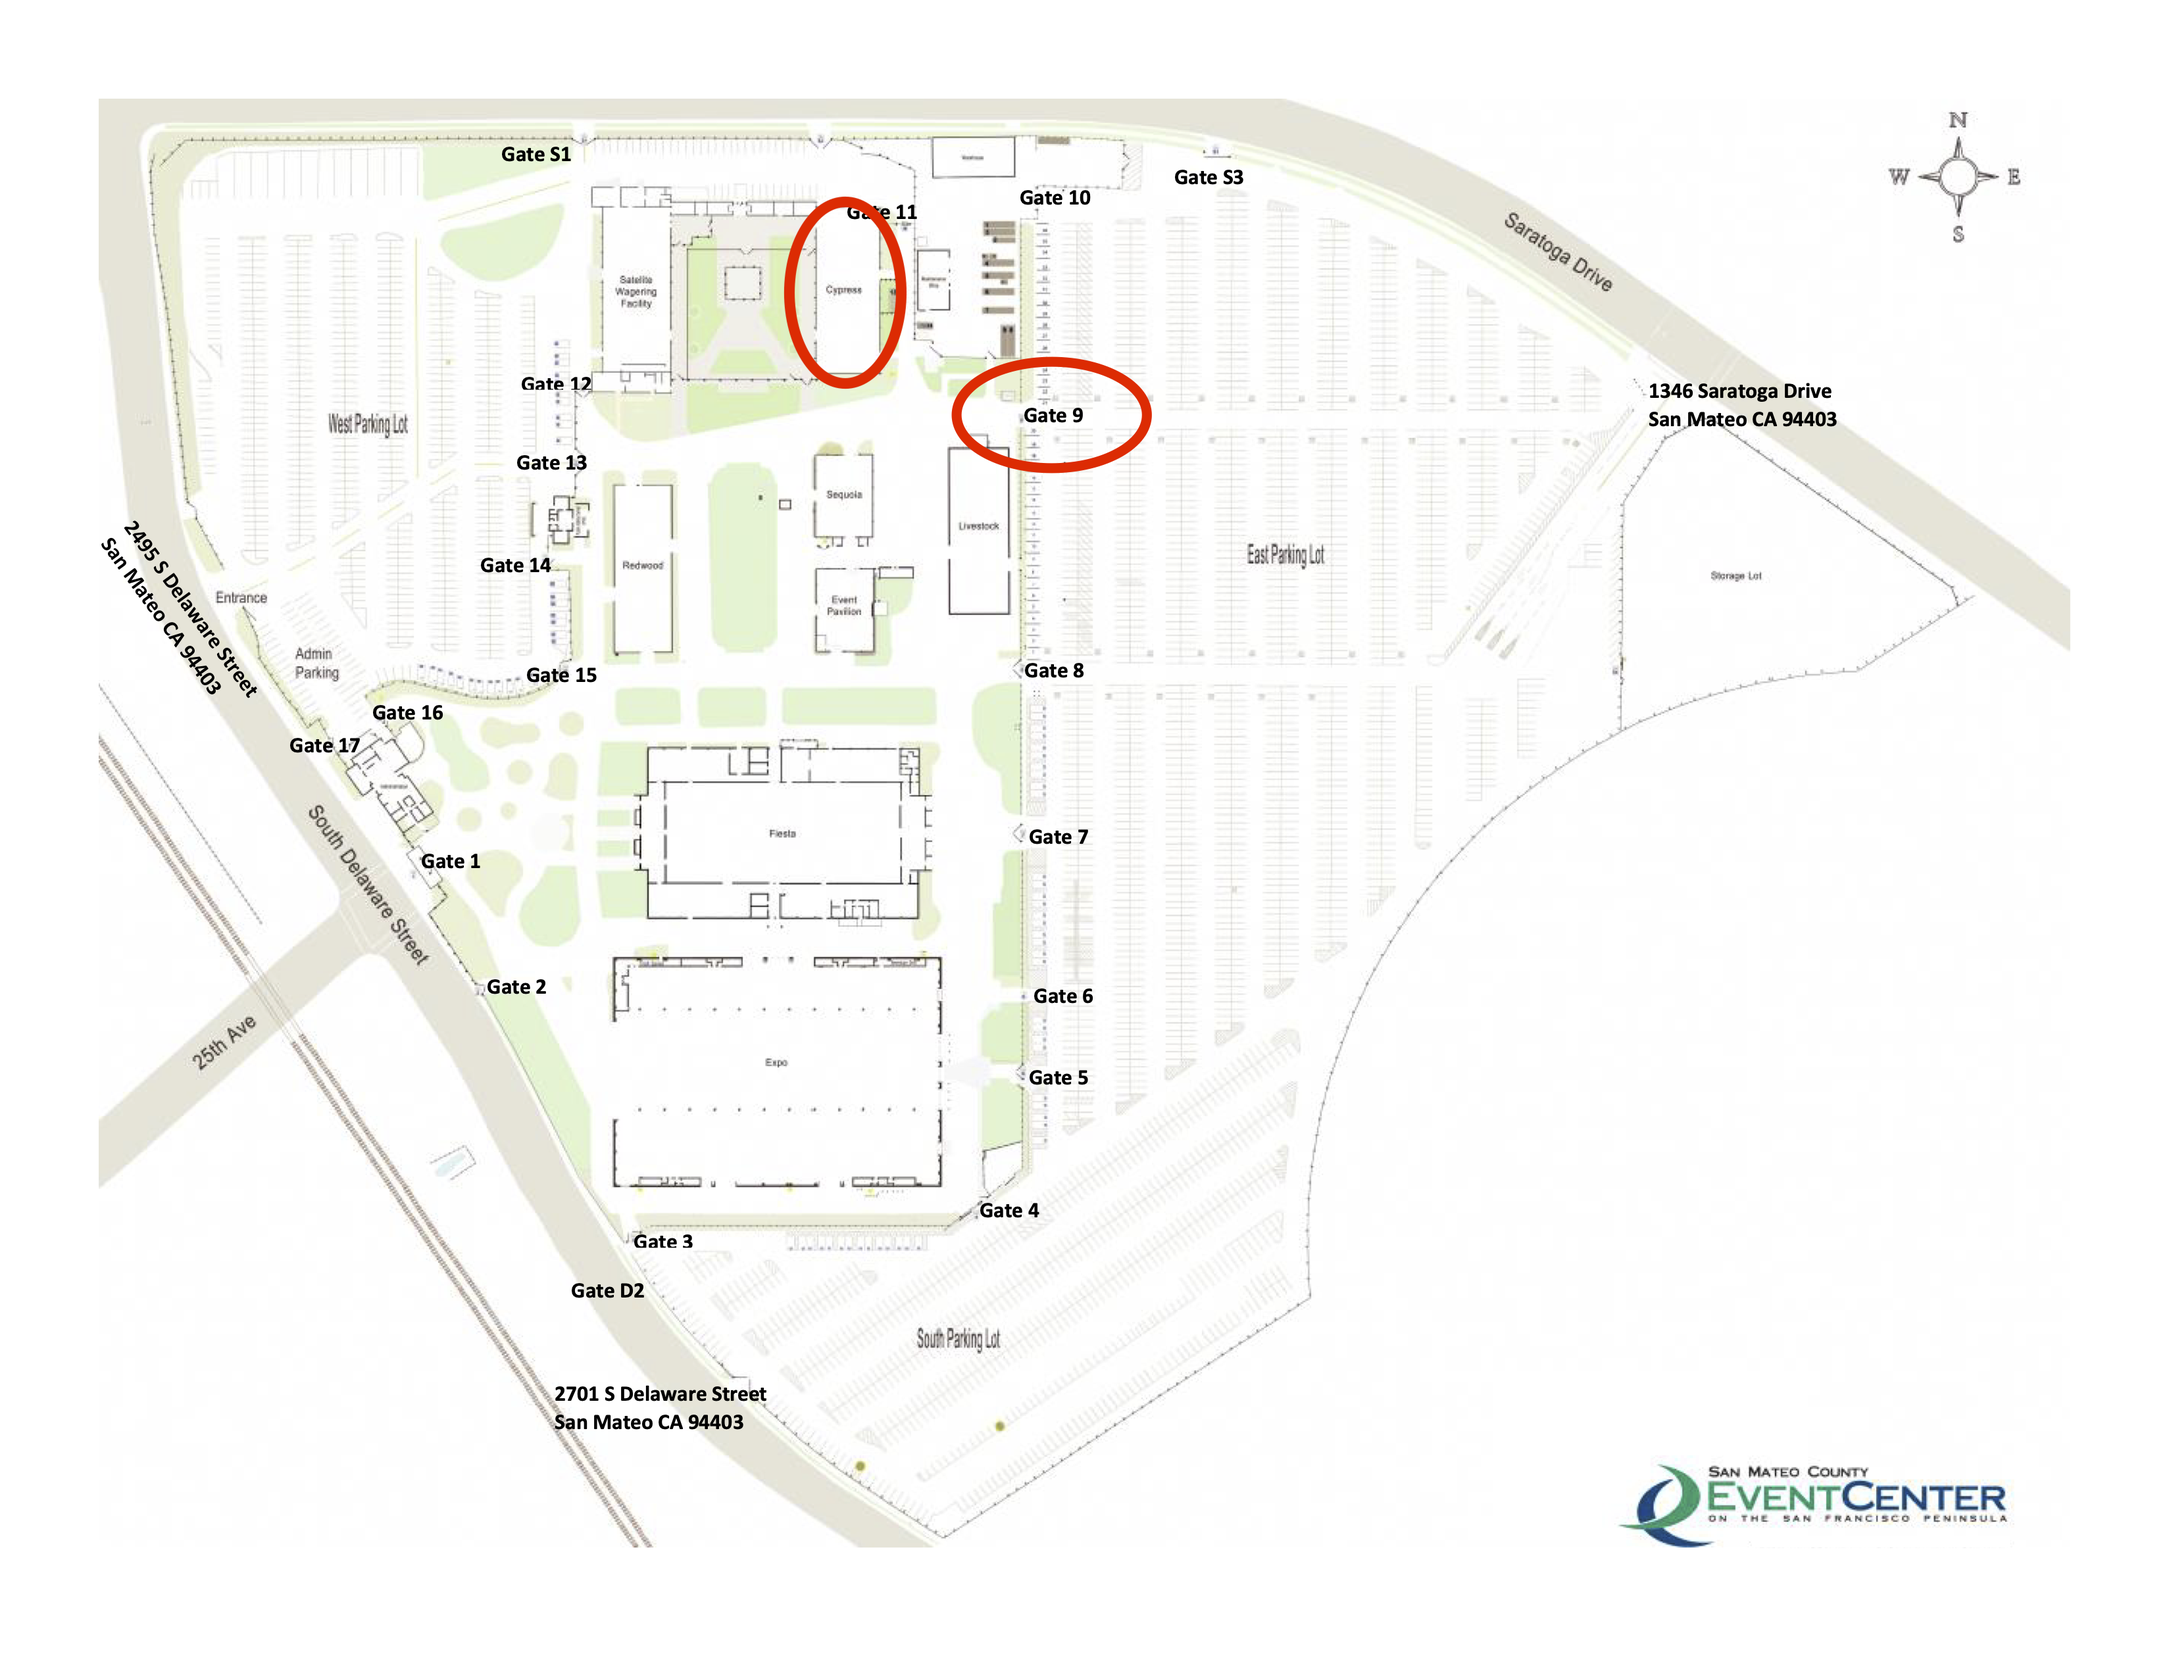
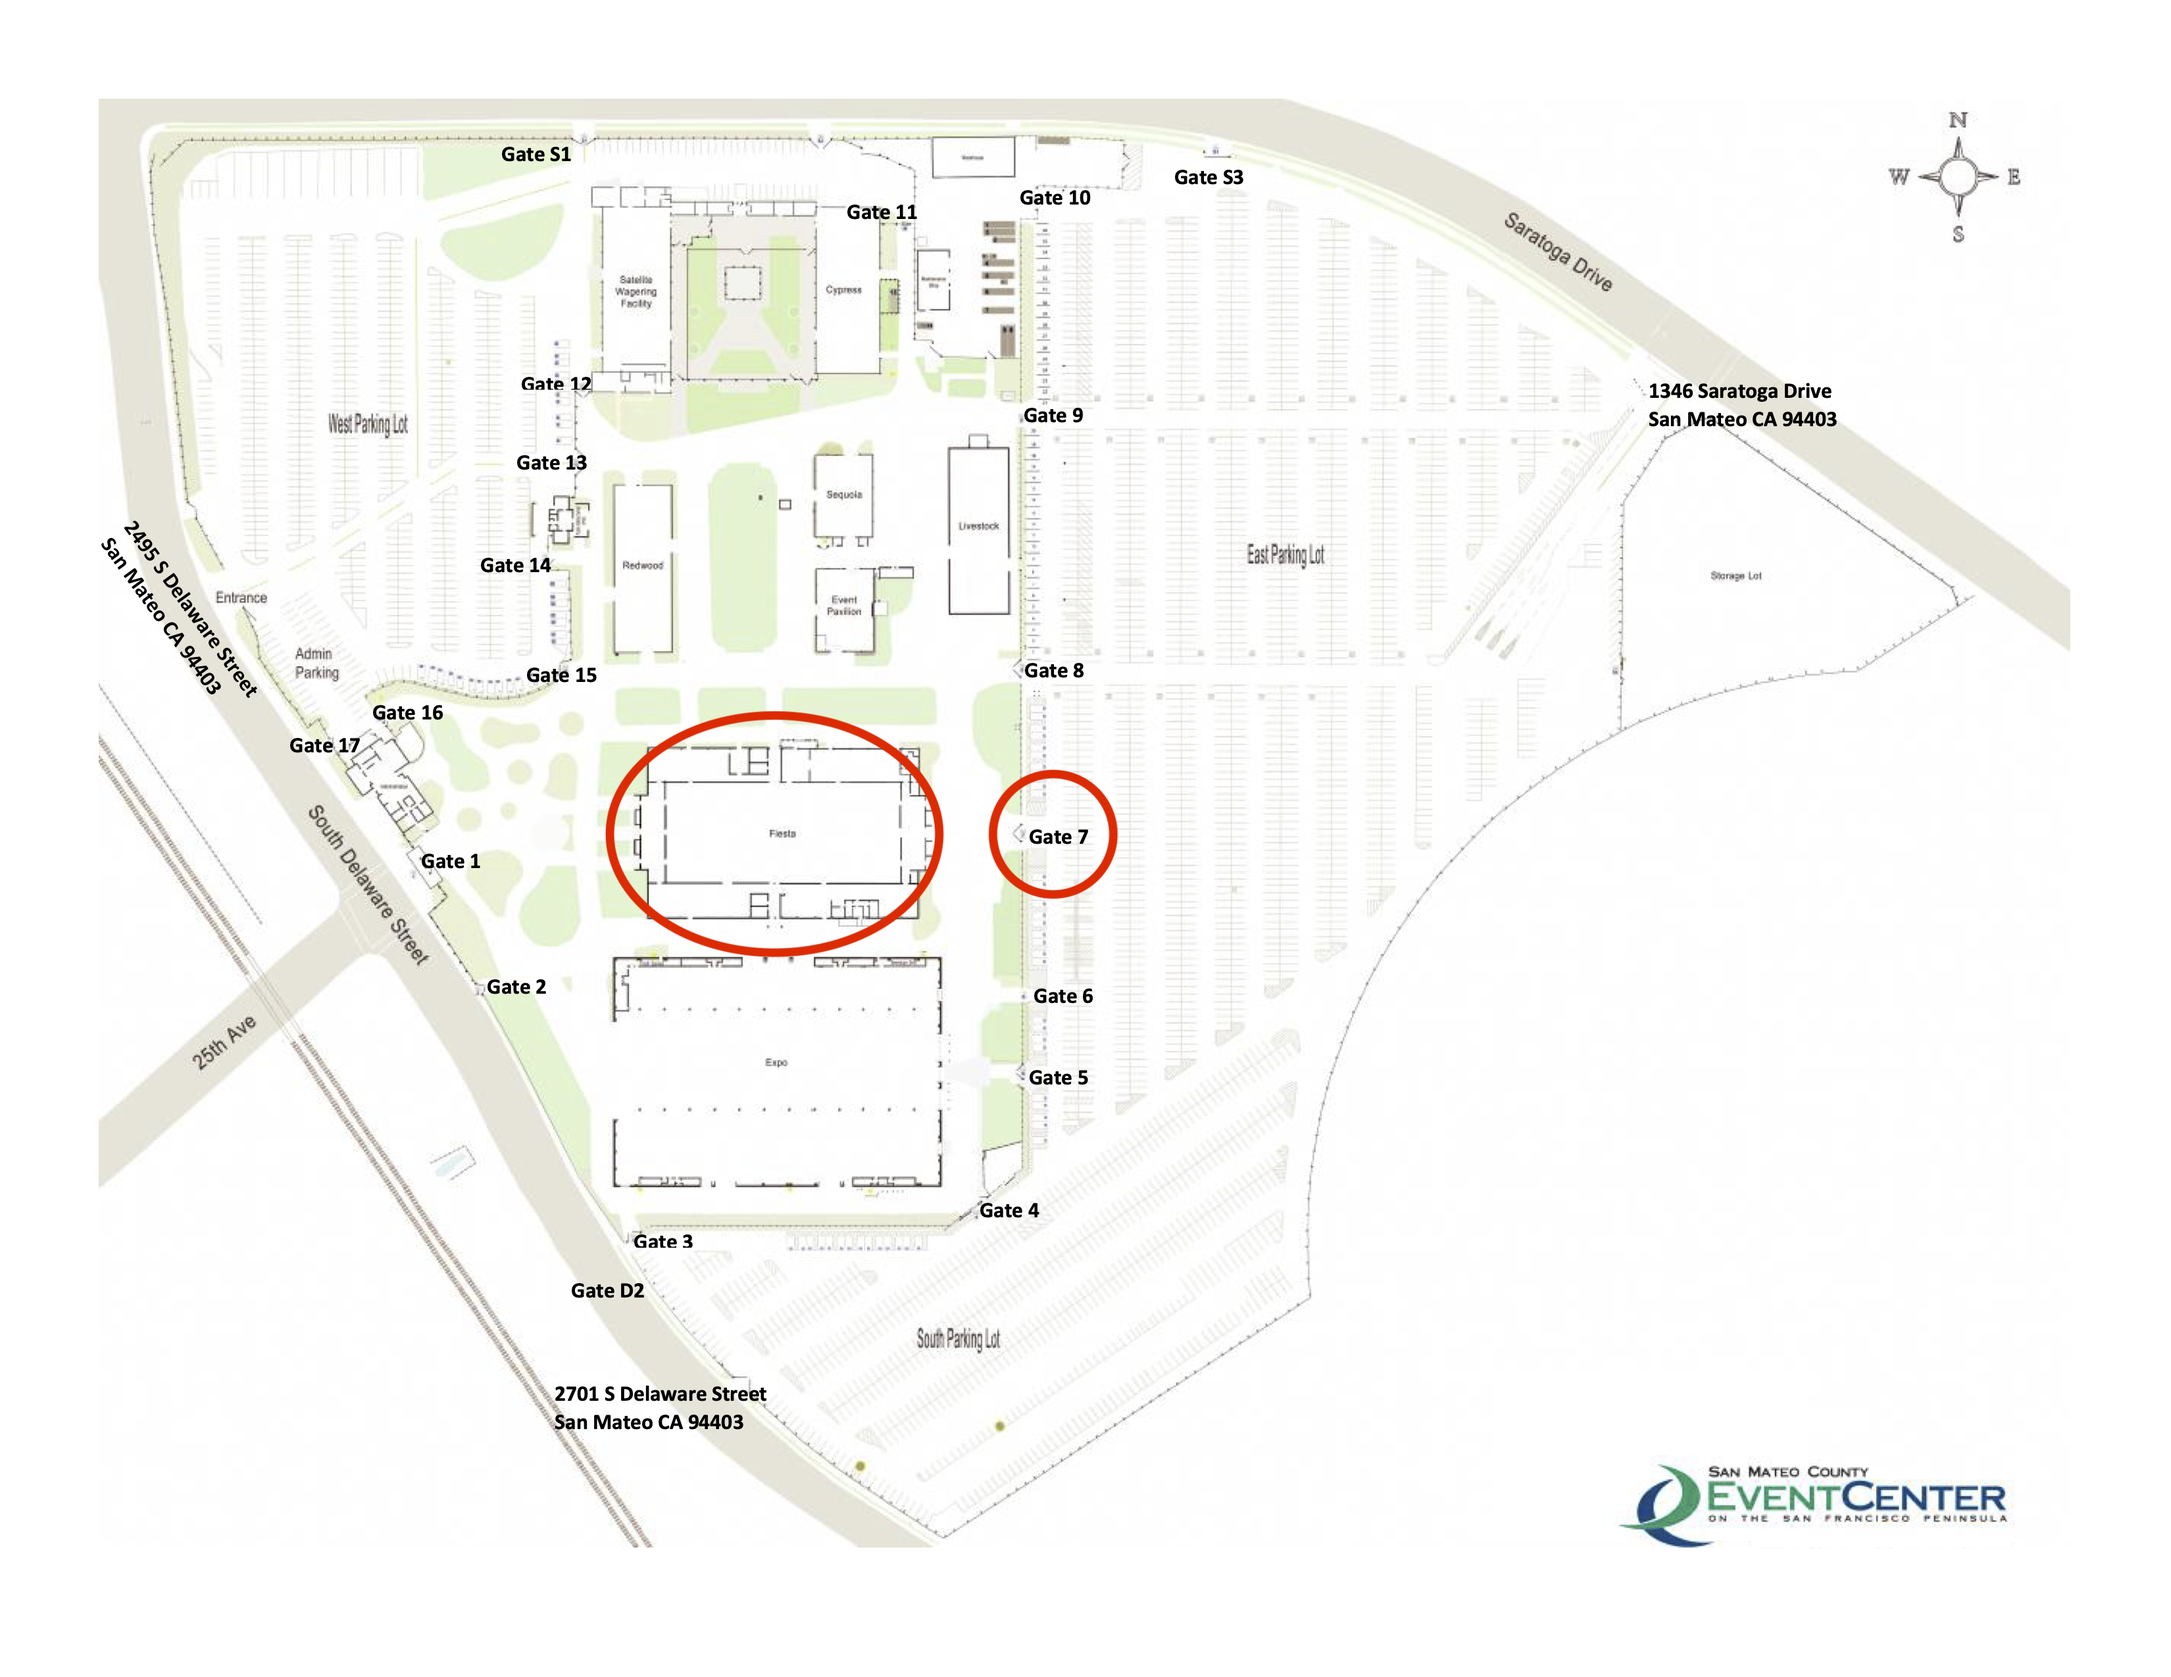
Hall change

diff --git a/index.html b/index.html
@@ -135,6 +135,9 @@
 
       <main>
         <div id="home">
+
+          <p class="super-super-important">Taikai and shinsa room has changed from Cypress Hall to <b>Fiesta hall</b>. To go to Fiesta hall, still park in East parking lot, but go through Gate 7 (rather than Gate 9).</p>
+
           <h2 id="home-about">About the events</h2>
           <p>This is the information site for the 1<sup>st</sup> Japan-Americas Friendship Kyudo Taikai and other related events that will take place from Nov. 14 to Nov. 17, 2024. Please choose each event from the navigation bar on the left and check the related information. We wish everybody a great time at the events!</p>
 
@@ -408,6 +411,8 @@
         <div id="nov-16">
           <!-- <h1 class="lnum">1<sup>st</sup> Japan-Americas Friendship Kyudo Taikai</h1> -->
 
+          <p class="super-super-important">Taikai and shinsa room has changed from Cypress Hall to <b>Fiesta hall</b>. To go to Fiesta hall, still park in East parking lot, but go through Gate 7 (rather than Gate 9).</p>
+
           <p>The taikai will be held on Nov. 16, at San Mateo County Event Center, from 9:00 <span class="smcp">am</span> to 4:30 <span class="smcp">pm</span>. Please see below for details.</p>
           <p>
             Note that the schedule time may change depending on the competition progress. Also, participants are responsible for their equipment and valuables. The sponsors will not be held liable for any loss of belongings inside the venue.
@@ -456,8 +461,9 @@
             <br/>
             (<a target="_blank" href="https://maps.app.goo.gl/bqup687U6Mv1vrVL6">Google Map</a>) (<a target="_blank" href="https://maps.apple.com/?address=1346%20Saratoga%20Dr,%20San%20Mateo,%20CA%2094403,%20United%20States&auid=4355412498156563077&ll=37.547674,-122.299161&lsp=9902&q=San%20Mateo%20County%20Event%20Center%20-%20Public%20Event%20Parking">Apple Map</a>)
           </blockquote>
+
           <p>
-            Here’s a <a target="_blank" href="./misc/SMCEC map.png">map to the building</a>. Park in the East Parking Lot (parking fee is waived) and enter through Gate 9 (circled on the map). Once you go in, Cypress Hall (circled on the map) should be on your right. Here’s a <a target="_blank" href="./misc/cypress-hall.pdf">floor plan of Cypress Hall</a> for your reference.
+            Here’s a <a target="_blank" href="./misc/SMCEC map.png">map to the building</a>. Park in the East Parking Lot (parking fee is waived) and enter through Gate 7 (circled on the map). Once you go in, Fiasta Hall (circled on the map) should be in front of you. Here’s a <a target="_blank" href="./misc/cypress-hall.pdf">floor plan of Fiasta Hall</a> for your reference.
           </p>
 
           <h2 id="nov-16-schedule">Schedule</h2>
@@ -1507,6 +1513,8 @@
           </tr>
           </table>
 
+          <p class="super-super-important">Taikai and shinsa room has changed from Cypress Hall to <b>Fiesta hall</b>. To go to Fiesta hall, still park in East parking lot, but go through Gate 7 (rather than Gate 9).</p>
+
           <p>The special shinsa will be  held on Nov. 17, at San Mateo County Event Center, from 9:00 <span class="smcp">am</span> to 3:35 <span class="smcp">pm</span>. Please see below for details.</p>
 
           <p>
@@ -1523,7 +1531,7 @@
             (<a target="_blank" href="https://maps.app.goo.gl/bqup687U6Mv1vrVL6">Google Map</a>) (<a target="_blank" href="https://maps.apple.com/?address=1346%20Saratoga%20Dr,%20San%20Mateo,%20CA%2094403,%20United%20States&auid=4355412498156563077&ll=37.547674,-122.299161&lsp=9902&q=San%20Mateo%20County%20Event%20Center%20-%20Public%20Event%20Parking">Apple Map</a>)
           </blockquote>
           <p>
-            Here’s a <a target="_blank" href="./misc/SMCEC map.png">map to the building</a>. Park in the East Parking Lot (parking fee is waived) and enter through Gate 9 (circled on the map). Once you go in, Cypress Hall (circled on the map) should be on your right.
+            Here’s a <a target="_blank" href="./misc/SMCEC map.png">map to the building</a>. Park in the East Parking Lot (parking fee is waived) and enter through Gate 7 (circled on the map). Once you go in, Fiasta Hall (circled on the map) should be in front of you.
           </p>
 
           <h2 id="nov-17-schedule">Schedule</h2>

diff --git a/styles.css b/styles.css
@@ -304,6 +304,15 @@ div.hanshi-info p {
   text-align: center;
 }
 
+.super-super-important {
+  background: #ffeeee;
+  margin: 16px;
+  text-align: left;
+  border: 1px solid #ffaaaa;
+  border-radius: 8px;
+  padding: 16px;
+}
+
 table.opening-schedule-en {
   border-collapse: collapse;
   margin: 16px auto;

diff --git a/styles.scss b/styles.scss
@@ -343,6 +343,15 @@ div.hanshi-info {
   text-align: center;
 }
 
+.super-super-important {
+  background: #ffeeee;
+  margin: 16px;
+  text-align: left;
+  border: 1px solid #ffaaaa;
+  border-radius: 8px;
+  padding: 16px;
+}
+
 @mixin opening-schedule {
   border-collapse: collapse;
   margin: 16px auto;
